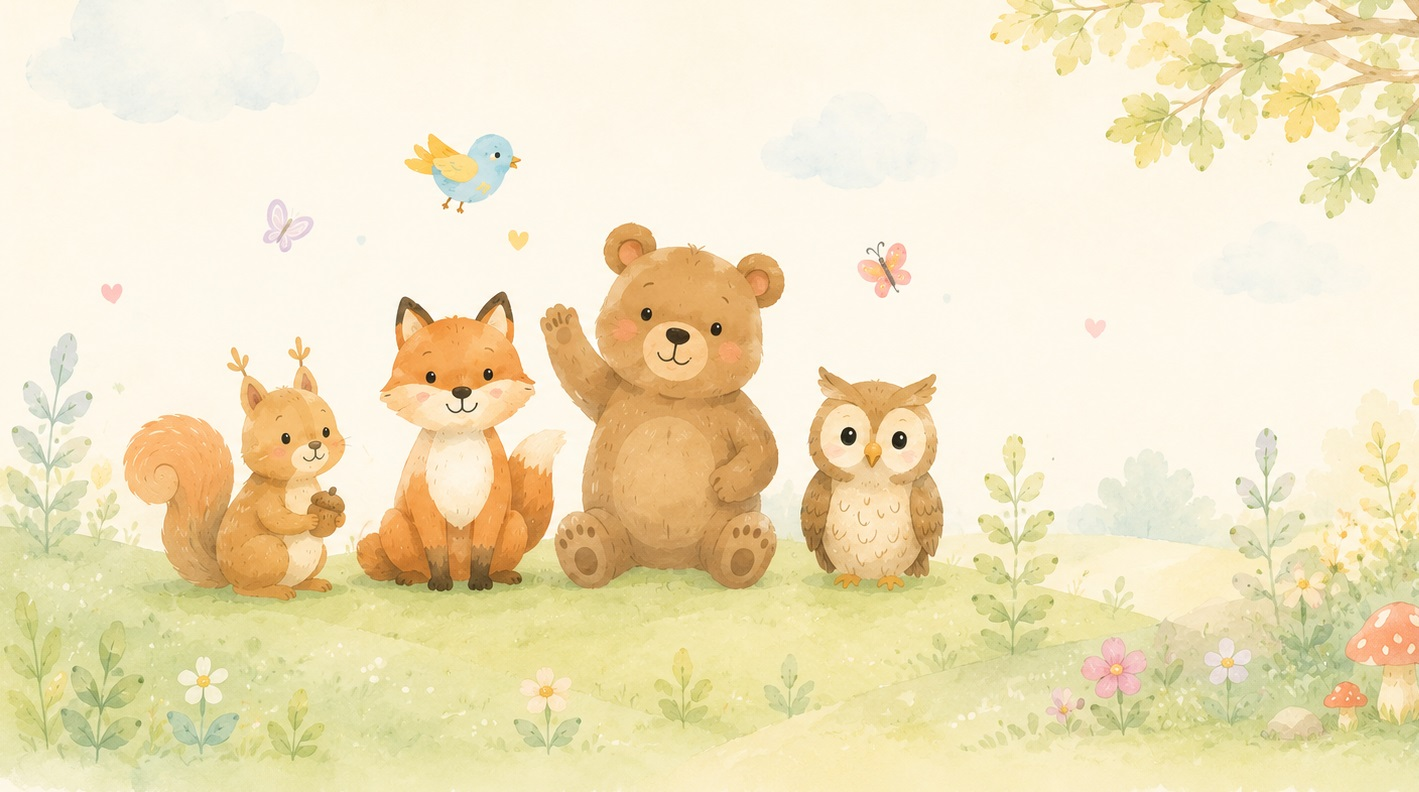
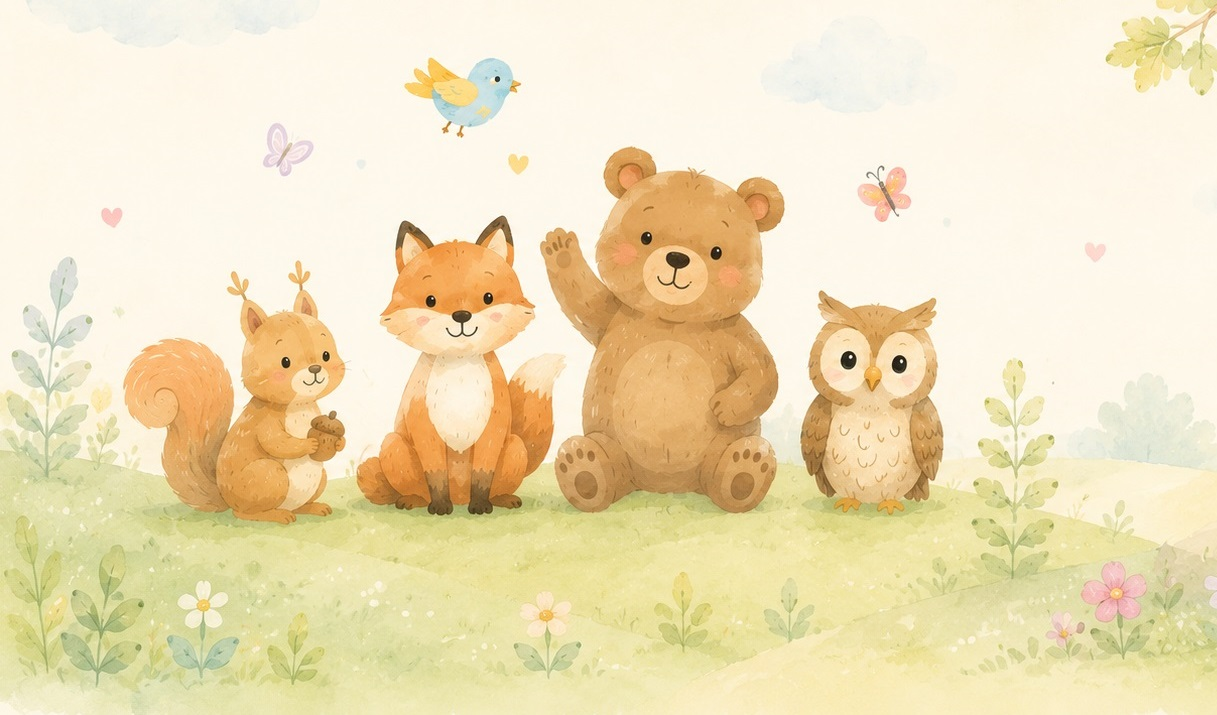
hero

diff --git a/app/page.tsx b/app/page.tsx
@@ -112,7 +112,7 @@ export default function Home() {
     <img
       src="/images/Hero-Banner-2.jpg"
       alt="Förderverein Kita"
-      className="h-full w-full object-cover object-center md:[object-position:75%_center]"
+      className="h-full w-full object-cover object-center md:object-cover"
     />
 
     <div className="absolute inset-0 bg-gradient-to-r from-[#f8f5ee]/95 via-[#f8f5ee]/20 to-transparent" />